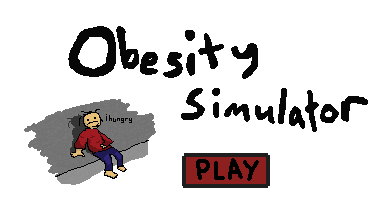
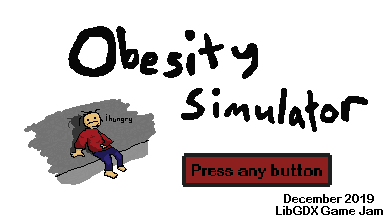
Improved SceneHandler
Just do what the title screen says and you will be met with a blank screen.

Changed region(s): [[0.4639, 0.6944, 0.9897, 1.0]]

diff --git a/core/src/com/epicgamers/obesitygame/MainGame.java b/core/src/com/epicgamers/obesitygame/MainGame.java
@@ -4,41 +4,66 @@ import com.badlogic.gdx.ApplicationAdapter;
 import com.badlogic.gdx.Gdx;
 import com.badlogic.gdx.graphics.GL20;
 import com.badlogic.gdx.graphics.OrthographicCamera;
-import com.badlogic.gdx.graphics.Texture;
 import com.badlogic.gdx.graphics.g2d.SpriteBatch;
+import com.epicgamers.obesitygame.scenes.TitleScreen;
+import com.epicgamers.obesitygame.scenes.Game;
+import com.epicgamers.obesitygame.scenes.PauseScreen;
+import com.epicgamers.obesitygame.scenes.SceneEnum.Scene;
 
 public class MainGame extends ApplicationAdapter {
 	
-	private Texture title;
+	private Scene scene;
+	private TitleScreen titleScreen;
+	private Game game;
+	private PauseScreen pause;
+	
 	private OrthographicCamera camera;
 	private SpriteBatch batch;
 	
 	@Override
 	public void create () {
-		title = new Texture(Gdx.files.internal("title.png"));
-		//title.setScale(3);
+		titleScreen = new TitleScreen();
+		game = new Game();
+		pause = new PauseScreen();
 		
 		camera = new OrthographicCamera();
 		camera.setToOrtho(false, 1280, 720);
 		
+		scene = Scene.TITLE;
 		batch = new SpriteBatch();
 	}
 
 	@Override
 	public void render () {
-		
-		Gdx.gl.glClearColor(210/255f, 248/255f, 252/255f, 1);
-	    Gdx.gl.glClear(GL20.GL_COLOR_BUFFER_BIT);
-		
 		batch.setProjectionMatrix(camera.combined);
 		batch.begin();
-		batch.draw(title, 0, 0, 1280, 720);
-		batch.end();
 		
+		switch(scene) {
+		case TITLE:
+			
+			scene = titleScreen.render(batch);
+			
+			break;
+		case GAME:
+			
+			//placeholder blank screen
+			scene = game.render(batch);
+			
+			break;
+		case PAUSE:
+			
+			//Nothing in the class, also no way to get there
+			scene = pause.render(batch);
+			
+			break;
+		}	
+		
+		batch.end();
 	}
 	
 	@Override
 	public void dispose () {
 		
 	}
+
 }

diff --git a/core/src/com/epicgamers/obesitygame/scenes/TitleScreen.java b/core/src/com/epicgamers/obesitygame/scenes/TitleScreen.java
@@ -1,0 +1,34 @@
+package com.epicgamers.obesitygame.scenes;
+
+import com.badlogic.gdx.Gdx;
+import com.badlogic.gdx.Input;
+import com.badlogic.gdx.graphics.GL20;
+import com.badlogic.gdx.graphics.Texture;
+import com.badlogic.gdx.graphics.g2d.Batch;
+
+import com.epicgamers.obesitygame.scenes.SceneEnum.Scene;
+
+public class TitleScreen {
+
+	Texture title;
+	
+	public TitleScreen() {
+		//initializing textures
+		title = new Texture(Gdx.files.internal("title.png"));
+	}
+	
+	public Scene render(Batch batch) {
+		
+		Gdx.gl.glClearColor(210/255f, 248/255f, 252/255f, 1);
+		Gdx.gl.glClear(GL20.GL_COLOR_BUFFER_BIT);
+		
+		batch.draw(title, 0, 0, 1280, 720);
+		
+		//return false if any button is pressed
+		if(Gdx.input.isKeyPressed(Input.Keys.ANY_KEY)) {
+			return Scene.GAME;
+		}else {
+			return Scene.TITLE;
+		}
+	}
+}

diff --git a/core/src/com/epicgamers/obesitygame/scenes/Game.java b/core/src/com/epicgamers/obesitygame/scenes/Game.java
@@ -1,0 +1,30 @@
+package com.epicgamers.obesitygame.scenes;
+
+import com.badlogic.gdx.Gdx;
+import com.badlogic.gdx.Input;
+import com.badlogic.gdx.graphics.GL20;
+import com.badlogic.gdx.graphics.Texture;
+import com.badlogic.gdx.graphics.g2d.Batch;
+
+import com.epicgamers.obesitygame.scenes.SceneEnum.Scene;
+
+public class Game {
+
+	//make texture variables
+	
+	
+	public Game() {
+		//initialize texture
+		
+	}
+	
+	public Scene render(Batch batch) {
+		
+		//Regular use for rendering (no need to worry about batch.begin() or batch.end)
+		Gdx.gl.glClearColor(210/255f, 248/255f, 252/255f, 1);
+		Gdx.gl.glClear(GL20.GL_COLOR_BUFFER_BIT);
+		
+		//Conditional returning Scene to change
+		return Scene.GAME;
+	}
+}

diff --git a/core/src/com/epicgamers/obesitygame/scenes/PauseScreen.java b/core/src/com/epicgamers/obesitygame/scenes/PauseScreen.java
@@ -1,0 +1,29 @@
+package com.epicgamers.obesitygame.scenes;
+
+import com.badlogic.gdx.Gdx;
+import com.badlogic.gdx.Input;
+import com.badlogic.gdx.graphics.GL20;
+import com.badlogic.gdx.graphics.Texture;
+import com.badlogic.gdx.graphics.g2d.Batch;
+
+import com.epicgamers.obesitygame.scenes.SceneEnum.Scene;
+
+public class PauseScreen {
+	//make texture variables
+	
+	
+		public PauseScreen() {
+			//initialize texture
+			
+		}
+		
+		public Scene render(Batch batch) {
+			
+			//Regular use for rendering (no need to worry about batch.begin() or batch.end)
+			
+			
+			//Conditional returning scene to change
+			
+			return Scene.PAUSE;
+		}
+}

diff --git a/core/src/com/epicgamers/obesitygame/scenes/SceneEnum.java b/core/src/com/epicgamers/obesitygame/scenes/SceneEnum.java
@@ -1,0 +1,10 @@
+package com.epicgamers.obesitygame.scenes;
+
+public class SceneEnum {
+	
+	public enum Scene{
+		TITLE,
+		GAME,
+		PAUSE
+	}
+}
